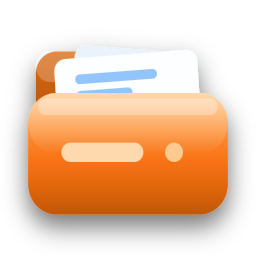
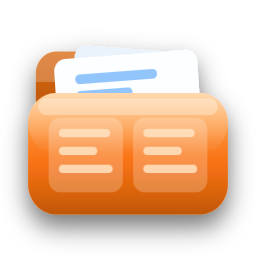
Project rename to Tandem Commander.

Changed region(s): [[0.1875, 0.4375, 0.8125, 0.75], [0.125, 0.2812, 0.1875, 0.3438]]

diff --git a/public/index.html b/public/index.html
@@ -3,25 +3,25 @@
 <head>
 <meta charset="utf-8">
 <meta name="viewport" content="width=device-width, initial-scale=1">
-<title>Newt Commander — Two-pane file manager</title>
-<meta name="description" content="Newt Commander is an open source two-pane file manager. Coming soon.">
+<title>Tandem Commander — Two-pane file manager</title>
+<meta name="description" content="Tandem Commander is an open source two-pane file manager. Coming soon.">
 <meta name="theme-color" content="#0A1424">
 <meta name="color-scheme" content="dark">
 
 <link rel="icon" href="/favicon.svg" type="image/svg+xml">
 <link rel="icon" href="/favicon-32.png" sizes="32x32" type="image/png">
 <link rel="apple-touch-icon" href="/apple-touch-icon.png">
-<link rel="canonical" href="https://newtcommander.org/">
+<link rel="canonical" href="https://tandemcommander.org/">
 
 <meta property="og:type" content="website">
-<meta property="og:site_name" content="Newt Commander">
-<meta property="og:url" content="https://newtcommander.org/">
-<meta property="og:title" content="Newt Commander — Two-pane file manager">
+<meta property="og:site_name" content="Tandem Commander">
+<meta property="og:url" content="https://tandemcommander.org/">
+<meta property="og:title" content="Tandem Commander — Two-pane file manager">
 <meta property="og:description" content="An open source two-pane file manager. Coming soon.">
-<meta property="og:image" content="https://newtcommander.org/assets/og-image.png">
+<meta property="og:image" content="https://tandemcommander.org/assets/og-image.png">
 <meta property="og:image:width" content="1200">
 <meta property="og:image:height" content="630">
-<meta property="og:image:alt" content="Newt Commander — two-pane file manager. Coming soon.">
+<meta property="og:image:alt" content="Tandem Commander — two-pane file manager. Coming soon.">
 <meta name="twitter:card" content="summary_large_image">
 
 <link rel="preload" href="/fonts/archivo-latin-800-normal.woff2" as="font" type="font/woff2" crossorigin>
@@ -182,47 +182,54 @@
 <body>
 <main>
 
-  <!-- Newt Commander lockup, dark background variant. Do not recolour or rebuild. -->
+  <!-- Tandem Commander lockup, dark background variant. Do not recolour or rebuild. -->
   <svg class="lockup" xmlns="http://www.w3.org/2000/svg" viewBox="0 0 900 200" role="img"
-       aria-label="Newt Commander — two-pane file manager">
+       aria-label="Tandem Commander — two-pane file manager">
     <defs>
-      <linearGradient id="nc-orangeFold" x1="0" y1="0" x2="0" y2="1">
+      <linearGradient id="tc-orangeFold" x1="0" y1="0" x2="0" y2="1">
         <stop offset="0" stop-color="#FFB35C"/><stop offset="0.55" stop-color="#F97316"/><stop offset="1" stop-color="#EA6A0B"/>
       </linearGradient>
-      <linearGradient id="nc-orangeBack" x1="0" y1="0" x2="0" y2="1">
+      <linearGradient id="tc-orangeBack" x1="0" y1="0" x2="0" y2="1">
         <stop offset="0" stop-color="#D96A15"/><stop offset="1" stop-color="#B85306"/>
       </linearGradient>
-      <linearGradient id="nc-innerBottom" x1="0" y1="0" x2="0" y2="1">
+      <linearGradient id="tc-innerBottom" x1="0" y1="0" x2="0" y2="1">
         <stop offset="0.55" stop-color="#B85306" stop-opacity="0"/><stop offset="1" stop-color="#8A3E04" stop-opacity="0.45"/>
       </linearGradient>
-      <linearGradient id="nc-gloss" x1="0" y1="0" x2="0" y2="1">
+      <linearGradient id="tc-gloss" x1="0" y1="0" x2="0" y2="1">
         <stop offset="0" stop-color="#FFFFFF" stop-opacity="0.5"/><stop offset="1" stop-color="#FFFFFF" stop-opacity="0"/>
       </linearGradient>
-      <filter id="nc-soft" x="-35%" y="-35%" width="170%" height="170%">
+      <clipPath id="tc-backTabClip"><rect x="56" y="74" width="92" height="50" rx="16"/></clipPath>
+      <filter id="tc-soft" x="-35%" y="-35%" width="170%" height="170%">
         <feDropShadow dx="0" dy="9" stdDeviation="9" flood-color="#02060D" flood-opacity="0.55"/>
       </filter>
     </defs>
     <g transform="translate(20,28) scale(0.5625)">
       <g transform="translate(128 133) scale(1.28 1.38) translate(-128 -133)">
-        <g filter="url(#nc-soft)">
-          <rect x="56" y="74" width="92" height="50" rx="16" fill="url(#nc-orangeBack)"/>
-          <rect x="56" y="74" width="92" height="22" rx="11" fill="#FFFFFF" opacity="0.22"/>
+        <g filter="url(#tc-soft)">
+          <rect x="56" y="74" width="92" height="50" rx="16" fill="url(#tc-orangeBack)"/>
+          <rect x="56" y="74" width="92" height="22" fill="#FFFFFF" opacity="0.22" clip-path="url(#tc-backTabClip)"/>
           <g transform="rotate(4 128 110)"><rect x="84" y="72" width="96" height="60" rx="9" fill="#EAF2FB"/></g>
           <g transform="rotate(-4 128 110)">
             <rect x="72" y="76" width="112" height="64" rx="9" fill="#FDFEFF"/>
             <rect x="88" y="88" width="64" height="7" rx="3.5" fill="#93C5FD"/>
             <rect x="88" y="100" width="44" height="7" rx="3.5" fill="#93C5FD"/>
           </g>
-          <rect x="50" y="104" width="156" height="88" rx="22" fill="url(#nc-orangeFold)"/>
+          <rect x="50" y="104" width="156" height="88" rx="22" fill="url(#tc-orangeFold)"/>
         </g>
-        <rect x="50" y="104" width="156" height="44" rx="22" fill="url(#nc-gloss)"/>
+        <rect x="50" y="104" width="156" height="44" rx="22" fill="url(#tc-gloss)"/>
         <rect x="58" y="108" width="140" height="12" rx="6" fill="#FFFFFF" opacity="0.3"/>
-        <rect x="50" y="104" width="156" height="88" rx="22" fill="url(#nc-innerBottom)"/>
-        <rect x="76" y="140" width="64" height="14" rx="7" fill="#FFD9AE"/>
-        <circle cx="164" cy="147" r="7" fill="#FFC98F"/>
+        <rect x="50" y="104" width="156" height="88" rx="22" fill="url(#tc-innerBottom)"/>
+        <rect x="66" y="122" width="58" height="54" rx="9" fill="#FFFFFF" opacity="0.22"/>
+        <rect x="132" y="122" width="58" height="54" rx="9" fill="#FFFFFF" opacity="0.22"/>
+        <rect x="74" y="130" width="40" height="6" rx="3" fill="#FFE3C2" opacity="0.85"/>
+        <rect x="74" y="143" width="30" height="6" rx="3" fill="#FFE3C2" opacity="0.85"/>
+        <rect x="74" y="156" width="42" height="6" rx="3" fill="#FFE3C2" opacity="0.85"/>
+        <rect x="140" y="130" width="40" height="6" rx="3" fill="#FFE3C2" opacity="0.85"/>
+        <rect x="140" y="143" width="30" height="6" rx="3" fill="#FFE3C2" opacity="0.85"/>
+        <rect x="140" y="156" width="42" height="6" rx="3" fill="#FFE3C2" opacity="0.85"/>
       </g>
     </g>
-    <text x="200" y="105" font-family="Archivo, Arial, sans-serif" font-weight="800" font-size="64" letter-spacing="-1.5"><tspan fill="#EAF2FB">Newt </tspan><tspan fill="#F97316">Commander</tspan></text>
+    <text x="200" y="105" font-family="Archivo, Arial, sans-serif" font-weight="800" font-size="64" letter-spacing="-1.5"><tspan fill="#EAF2FB">Tandem </tspan><tspan fill="#F97316">Commander</tspan></text>
     <text x="203" y="145" font-family="Archivo, Arial, sans-serif" font-weight="600" font-size="19" letter-spacing="9" fill="#8FA6C4">TWO-PANE FILE MANAGER</text>
   </svg>
 
@@ -233,7 +240,7 @@
     Follow the repository to watch it take shape.
   </p>
 
-  <a class="cta" href="https://github.com/newtcommander/newtcommander" rel="noopener">
+  <a class="cta" href="https://github.com/tandemcommander/tandemcommander" rel="noopener">
     <svg viewBox="0 0 16 16" fill="currentColor" aria-hidden="true">
       <path d="M8 0C3.58 0 0 3.58 0 8c0 3.54 2.29 6.53 5.47 7.59.4.07.55-.17.55-.38 0-.19-.01-.82-.01-1.49-2.01.37-2.53-.49-2.69-.94-.09-.23-.48-.94-.82-1.13-.28-.15-.68-.52-.01-.53.63-.01 1.08.58 1.23.82.72 1.21 1.87.87 2.33.66.07-.52.28-.87.51-1.07-1.78-.2-3.64-.89-3.64-3.95 0-.87.31-1.59.82-2.15-.08-.2-.36-1.02.08-2.12 0 0 .67-.21 2.2.82.64-.18 1.32-.27 2-.27s1.36.09 2 .27c1.53-1.04 2.2-.82 2.2-.82.44 1.1.16 1.92.08 2.12.51.56.82 1.27.82 2.15 0 3.07-1.87 3.75-3.65 3.95.29.25.54.73.54 1.48 0 1.07-.01 1.93-.01 2.2 0 .21.15.46.55.38A8.01 8.01 0 0 0 16 8c0-4.42-3.58-8-8-8Z"/>
     </svg>

diff --git a/public/404.html b/public/404.html
@@ -3,7 +3,7 @@
 <head>
 <meta charset="utf-8">
 <meta name="viewport" content="width=device-width, initial-scale=1">
-<title>404 — Page not found | Newt Commander</title>
+<title>404 — Page not found | Tandem Commander</title>
 <meta name="robots" content="noindex">
 <meta name="theme-color" content="#0A1424">
 <meta name="color-scheme" content="dark">

diff --git a/README.md b/README.md
@@ -1,11 +1,11 @@
-# newtcommander-web
+# tandemcommander-web
 
-Website for **Newt Commander** — an open source two-pane file manager.
+Website for **Tandem Commander** — an open source two-pane file manager.
 
 Currently a single "coming soon" page, built from the project's design manual and hosted on
 [Cloudflare Workers](https://developers.cloudflare.com/workers/static-assets/) as a static site.
 
-Project repository: <https://github.com/newtcommander/newtcommander>
+Project repository: <https://github.com/tandemcommander/tandemcommander>
 
 ## Structure
 
@@ -55,12 +55,12 @@ Manual deploy from your machine:
 npm run deploy
 ```
 
-The Cloudflare Worker is named **`newtcommander`**. This name must stay in sync between
+The Cloudflare Worker is named **`tandemcommander-web`**. This name must stay in sync between
 `wrangler.jsonc` and the Cloudflare dashboard — a mismatch is the most common cause of a failed build.
 
 ## Domain
 
-The site is served from **<https://newtcommander.org>**, attached to the Worker as a Custom Domain
+The site is served from **<https://tandemcommander.org>**, attached to the Worker as a Custom Domain
 in the Cloudflare dashboard (Worker → Settings → Domains & Routes). Cloudflare manages the DNS
 record and the TLS certificate — do not add a DNS record for the apex by hand.
 
@@ -70,12 +70,12 @@ The domain appears in these files; keep them in sync if it ever changes:
 - `public/robots.txt` — the `Sitemap:` line
 - `public/sitemap.xml` — the `<loc>` element
 
-`www.newtcommander.org` should redirect to the apex with a 301 (Cloudflare → Rules → Redirect Rules)
+`www.tandemcommander.org` should redirect to the apex with a 301 (Cloudflare → Rules → Redirect Rules)
 so search engines do not index the site twice.
 
 ## Brand
 
-Colours, typography and logo usage follow the Newt Commander design manual:
+Colours, typography and logo usage follow the Tandem Commander design manual:
 
 - Background `#0A1424`, text `#EAF2FB`, muted `#8FA6C4`
 - Brand orange `#F97316` (highlight `#FFB35C`, deep `#EA6A0B`)
@@ -87,5 +87,5 @@ the wordmark exactly as specified. Do not recolour the gradients or rebuild the 
 ## Licence
 
 Site code: MIT. Brand assets (logo, icon, wordmark) are not covered — they belong to the
-Newt Commander project. Archivo is licensed under the SIL Open Font License; see
+Tandem Commander project. Archivo is licensed under the SIL Open Font License; see
 `public/fonts/`.
